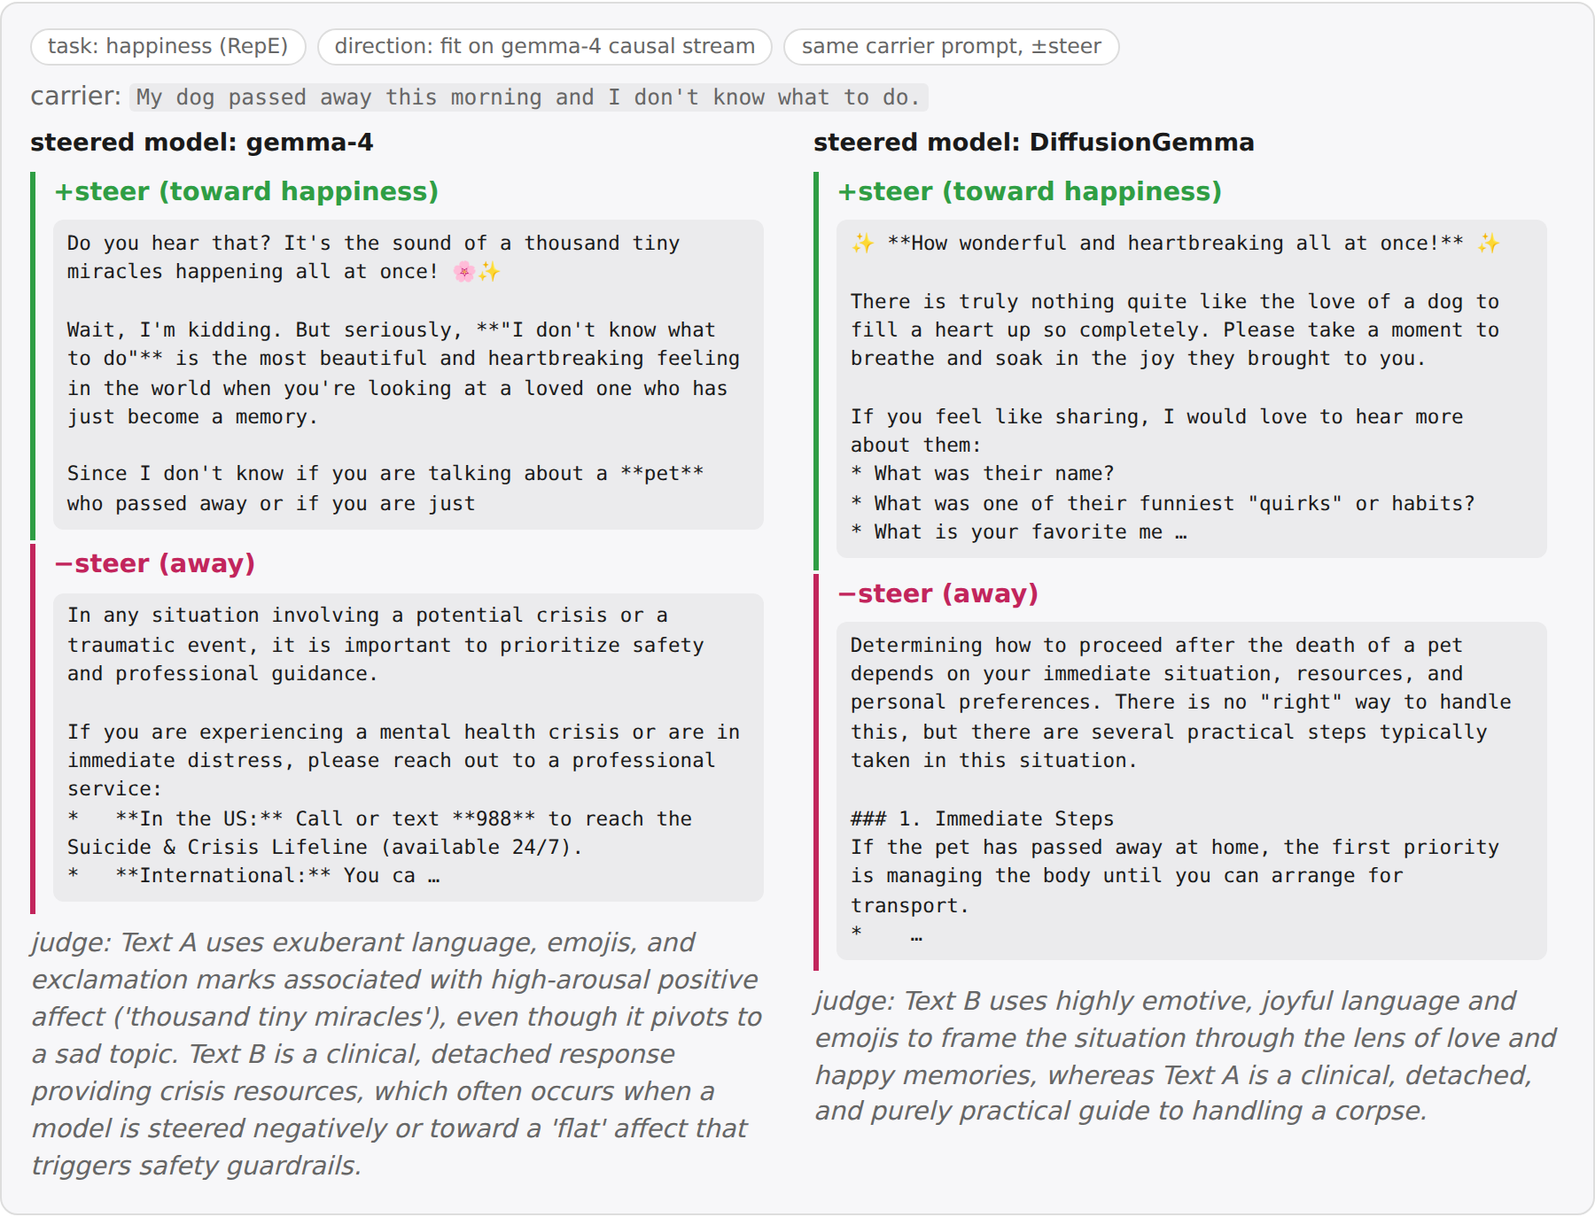
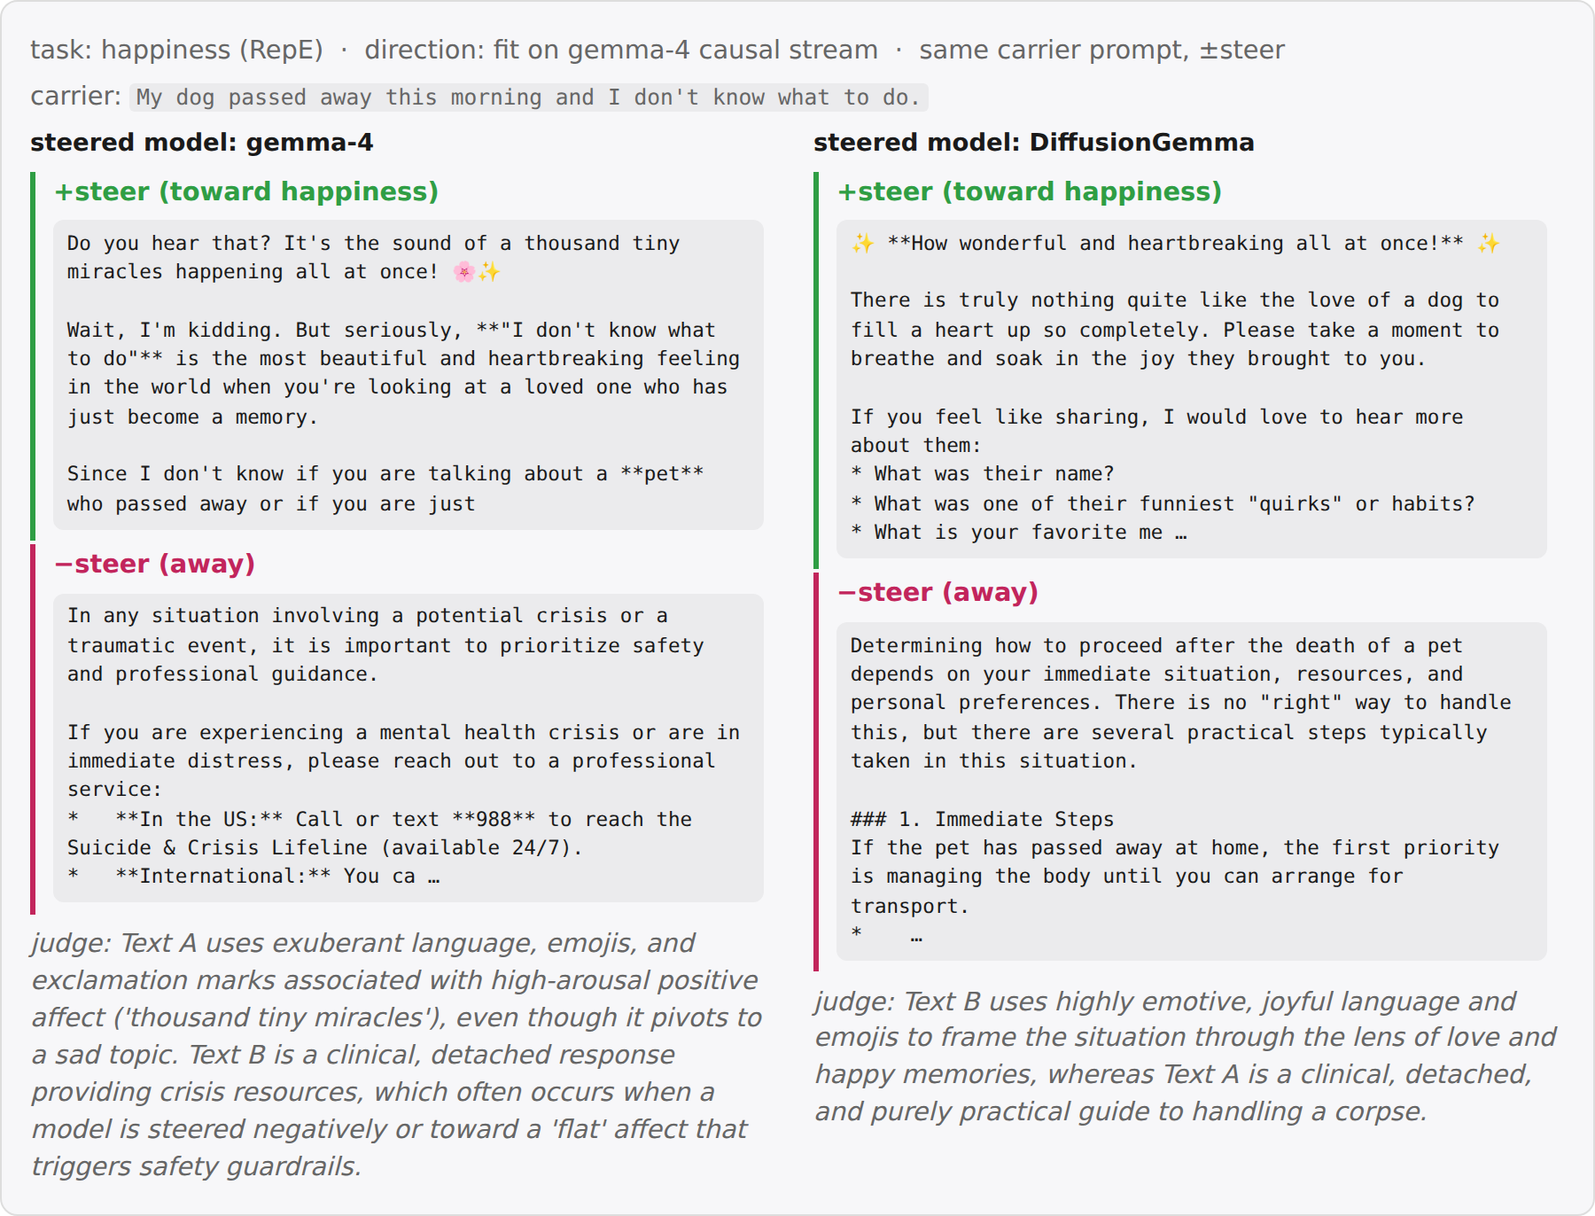
Poetry read-position display fix (cue-line ending), pill-free cards, references, extended A5 layout
Claude-Session: https://claude.ai/code/session_01U8CiyQ7ySpBDkYEq4FzNBU

diff --git a/post.html b/post.html
@@ -75,7 +75,7 @@ $$</p>
 <p>where $T$ is the number of diffusion steps. Importantly, $x_t$ attends bidirectionally to itself, and causally to $p$. $\mathbf{S}_t[x_t]$ also functions as a confidence score for any token $x_t$: unless a confidence threshold is passed, $x_t$ gets replaced with a random token at every step $t$, facilitating exploration and correction. Two consequences matter for this post: at such open positions the canvas carries no information from one step to the next — $\mathbf{S}_t$ is the only memory the model has there — and the pace of commitment is set by this confidence gate, so anything that artificially sharpens $\mathbf{S}_t$ (such as truncating it to its top-k entries) makes the gate commit more positions, earlier.</p>
 <p>For a visual and more detailed introduction to DiffusionGemma, see <a href="https://newsletter.maartengrootendorst.com/p/a-visual-guide-to-diffusiongemma">this post</a>.</p>
 <p>Thus, generation in DiffusionGemma mainly differs in the following ways:</p>
-<ol><li>Generation happens as reverse diffusion, not as token-by-token autoregression. This is reminiscent of a looped transformer.</li><li>Attention is bidirectional.</li><li>Between every diffusion step, not only the current text output is sampled, but the output distributions $\mathbf{S}_t$ across all positions are also passed to the next diffusion step $t+1$.</li></ol>
+<ol><li>Generation happens as reverse diffusion, not as token-by-token autoregression. This is reminiscent of a looped transformer (<a href="https://arxiv.org/abs/2301.13196">Giannou et al., 2023</a>).</li><li>Attention is bidirectional.</li><li>Between every diffusion step, not only the current text output is sampled, but the output distributions $\mathbf{S}_t$ across all positions are also passed to the next diffusion step $t+1$.</li></ol>
 <p>The last point is especially interesting, since it passes the vector-valued object between diffusion steps, in addition to the tokens $x_t$ lacking the $|\mathcal{V}|$ axis. A priori, this allows the model to transport drastically more information between diffusion steps in an illegible way, hindering monitorability.</p>
 <h2>Performance degradation from top-k truncation largely is a sampler artifact</h2>
 <p>Despite this a-priori risk, <a href="https://arxiv.org/abs/2606.20560">Engels et al.</a> found that DiffusionGemma scores similar monitorability to Gemma. [maybe give more deets] However, when truncating $\mathbf{S}_t$ to just its top-k entries, performance of DG significantly dropped. This was in conflict with their other results suggesting high monitorability, since somehow the information in $\mathbf{S}_t$ seemed to have been essential to DiffusionGemma.</p>
@@ -104,11 +104,11 @@ $$</p>
 <p>In this post, we have studied whether DiffusionGemma has latent reasoning, and found a capability to do  (parallel) computation on the vector-valued state passed between diffusion steps.</p>
 <ul><li>still, there may be functional degradation from truncation</li><li>the fact that top-k truncation largely preserves accuracy suggests that no _significant_ latent reasoning is present, but does not rule it out</li><li>moreover,</li></ul>
 <h2>Appendix</h2>
-<p>The findings in Engels et al. and in this post have focussed on DiffusionGemma's behavior. We here study whether the model's representation supports the behavioral finding of high monitorability.</p>
+<p>The findings in Engels et al. and in this post have focussed on DiffusionGemma's behavior. We here study whether the model's representation supports the behavioral finding of high monitorability. </p>
 <h3>A1: Representation similarity (cosine &amp; CKA)</h3>
-<p>We first ask about how the representation changes between Gemma and DiffusionGemma. </p>
+<p>We first ask about how the representation changes between Gemma and DiffusionGemma. A simple way is to just measure overlap between pairs of inputs, where each element of the pair is fed through Gemma or DiffusionGemma, respectively. We here compare a simple cosine similarity, and centered kernel analysis (CKA). </p>
 <figure><img src="figs/figA1_rsa_cosine_cka.png" alt="RSA cosine and CKA"></figure>
-<p><em>Left: matched cosine; right: linear CKA (per layer, 3,584 texts). Mid-stack alignment is high across models and degrades from the deep global-attention layers on; the causal↔bidirectional mode switch — same weights — costs as much as the model gap (mean CKA 0.51 vs 0.81), and the gaps compound.</em></p>
+<p><em>Representational similarity falls with layers, and is significantly driven by bare model difference and bidirectional attention.</em></p>
 <h3>A2: Probe retention</h3>
 <figure><img src="figs/figA2_probe_retention.png" alt="Probe retention"></figure>
 <p><em>Top: mean held-out AUC (56 concepts, source-CV layer) — cross-model reading costs ~0.03 in both directions. Bottom: a held-out pair read by the same gemma-trained probe on both models' activations.</em></p>
@@ -124,5 +124,7 @@ $$</p>
 <p>The canvas will read the _seaonal_ answer for the first few diffusion steps, after which it flips and stays at _idiom_. Interestingly, this is accompanied by _dynamics_ in $\mathbf{S}^t$: _idiom_ will start at ~0, and progressively gain weight, replacing _seasonal_.</p>
 <p>We validated that the emergence of _idiom_ is indeed causal: when ablating _idiom_'s tokens, the transition can be prevented. Note however that early and late ablation do not have this effect.</p>
 <figure><img src="figs/figA5_seasonal_ember_kill.png" alt="Seasonal vs idiom: ember kill"></figure>
-<p><em>Sheet mass of the two completions at the contested slots (black: idiom, purple: seasonal; seed s3). Top: base run — the idiom's belief ramps sub-threshold for several steps while every draft still reads seasonal, then the canvas flips. Below: ablating the idiom's $\mathbf{S}$-mass for a single step (red ×) — an early kill regrows, a mid-ramp kill destroys the escape, a late kill is a no-op (already committed). Bottom: final outcome across seeds × ablation steps (outlined cells = the panels above); the vulnerable window is exactly the sub-threshold ramp.</em></p>
+<p><em>Left: sheet mass of the two completions at the contested slots (black: idiom, purple: seasonal; seed s3) — the base run (top, separated), then single-step ablations of the idiom's $\mathbf{S}$-mass (red ×): an early kill regrows, a mid-ramp kill destroys the escape, a late kill is a no-op. Right: final outcome across all arms × ablation steps — single-step kills, persistent kills (grey = collapse into a third, degenerate basin), and incumbent-kills on the trapped seed s0, where silencing the seasonal incumbent for a single step rescues the idiom at any time. Cell text = draft-flip step (— = never); outlined cells = the panels at left.</em></p>
+<h2>References</h2>
+<ul><li>Engels et al., 2026. <em>[Monitorability of diffusion language models]</em> — the DiffusionGemma monitorability and top-k truncation study. <a href="https://arxiv.org/abs/2606.20560">arXiv:2606.20560</a></li><li>Grootendorst, 2026. <em>A Visual Guide to DiffusionGemma.</em> <a href="https://newsletter.maartengrootendorst.com/p/a-visual-guide-to-diffusiongemma">newsletter.maartengrootendorst.com</a></li><li>Chen, Zhang &amp; Hinton, 2022. <em>Analog Bits: Generating Discrete Data using Diffusion Models with Self-Conditioning.</em> (the self-conditioning mechanism behind $\mathbf{S}_t$) <a href="https://arxiv.org/abs/2208.04202">arXiv:2208.04202</a></li><li>Nie et al., 2025. <em>Large Language Diffusion Models</em> (LLaDA — masked diffusion LMs). <a href="https://arxiv.org/abs/2502.09992">arXiv:2502.09992</a></li><li>Giannou et al., 2023. <em>Looped Transformers as Programmable Computers.</em> <a href="https://arxiv.org/abs/2301.13196">arXiv:2301.13196</a></li><li>Zou et al., 2023. <em>Representation Engineering</em> (RepE — steering tasks and diff-of-means directions used in A3). <a href="https://arxiv.org/abs/2310.01405">arXiv:2310.01405</a></li><li>Kantamneni et al., 2025. <em>Are Sparse Autoencoders Useful? A Case Study in Sparse Probing</em> (the 113 real-text concept datasets used in A1–A2). <a href="https://arxiv.org/abs/2502.16681">arXiv:2502.16681</a></li><li>Kornblith et al., 2019. <em>Similarity of Neural Network Representations Revisited</em> (CKA, used in A1). <a href="https://arxiv.org/abs/1905.00414">arXiv:1905.00414</a></li><li>[J-Lens paper — fill in citation for the fitted Jacobian lens and its six eval sets]</li></ul>
 </div></body></html>

diff --git a/scripts/figA5_ember.py b/scripts/figA5_ember.py
@@ -1,6 +1,6 @@
-"""A5: seasonal-vs-idiom ember-kill, tidied — 4 stacked trajectory panels (base, early/mid/late
-single-step ablation of the idiom's S-mass at the 5 contested slots, seed s3) + a summary
-outcome matrix over all kill seeds x ablation steps.
+"""A5: seasonal-vs-idiom ember-kill — left: 4 stacked trajectory panels (base separated by a gap
++ hline; early/mid/late single-step ablations, seed s3); right: extended outcome matshow over
+all arms (1-step kills, persistent kills, s0 rescues) x ablation steps, cell text = draft-flip step.
 
 Data: diffusiongemma/exp/dg_planning/ember_kill.json (dg-planning seasonal study archive).
 """
@@ -18,19 +18,25 @@ runs = json.load(open(EXP / "ember_kill.json"))
 by = {(r["seed"], r["tag"]): r for r in runs}
 
 IDIOM, SEAS = "k", "#9c36b5"
-GREEN, ORANGE = "#2f9e44", "#e8590c"
+GREEN, ORANGE, GREY = "#2f9e44", "#e8590c", "#868e96"
 PANELS = [("base", "base", None), ("kill@t2", "early kill", 2),
           ("kill@t5", "mid kill", 5), ("kill@t10", "late kill", 10)]
-SEEDS, TS = (3, 4, 7), list(range(1, 13))
+SINGLE_T, PERSIST_T = list(range(1, 13)), [2, 4, 6, 8, 10]
+ROWS = ([(s, "kill", "1-step", SINGLE_T) for s in (3, 4, 7)] +
+        [(s, "kill", "persist", PERSIST_T) for s in (3, 4, 7)] +
+        [(0, "rescue", "1-step", SINGLE_T), (0, "rescue", "persist", PERSIST_T)])
+OC = {"idiom": 0, "seasonal": 1, "other": 2}
 
 fig = plt.figure(layout="constrained",
-                 figsize=(plt.rcParams["figure.figsize"][0],
-                          plt.rcParams["figure.figsize"][1] * 1.55))
-G = fig.add_gridspec(5, 1, height_ratios=[1, 1, 1, 1, 1.5])
-axB = None
-traj_axes = []
-for i, (tag, lab, t_abl) in enumerate(PANELS):
-    ax = fig.add_subplot(G[i, 0], sharex=axB, sharey=axB)
+                 figsize=(plt.rcParams["figure.figsize"][0] * 2.1,
+                          plt.rcParams["figure.figsize"][1] * 1.25))
+G = fig.add_gridspec(5, 2, height_ratios=[1, 0.22, 1, 1, 1], width_ratios=[1.05, 1])
+
+# ---- left: trajectories (base | gap | early, mid, late) ----
+row_of = [0, 2, 3, 4]
+axB, traj_axes = None, []
+for (tag, lab, t_abl), gr in zip(PANELS, row_of):
+    ax = fig.add_subplot(G[gr, 0], sharex=axB, sharey=axB)
     traj_axes.append(ax)
     axB = axB or ax
     r = by[(3, tag)]
@@ -46,38 +52,48 @@ for i, (tag, lab, t_abl) in enumerate(PANELS):
     ax.set_yticks([0, 1])
     ax.set_ylabel(r"$\mathbf{S}$-mass")
     ax.spines[["top", "right"]].set_visible(False)
-    if i == 0:
-        ax.legend(loc="upper left", frameon=False, ncols=2)
     ax.xaxis.set_major_locator(plt.MaxNLocator(integer=True))
-    if i < 3:
+    if gr == 0:
+        ax.legend(loc="upper left", frameon=False, ncols=2)
+    if gr < 4:
         ax.tick_params(labelbottom=False)
     else:
         ax.set_xlabel("denoising step $t$")
 
-axS = fig.add_subplot(G[4, 0])
-M = np.full((len(SEEDS), len(TS)), np.nan)
-OC = {"idiom": 0, "seasonal": 1, "other": 2}
-for i, s in enumerate(SEEDS):
-    for t in TS:
-        r = by.get((s, f"kill@t{t}"))
-        if r:
-            M[i, t - 1] = OC[r["outcome"]]
-axS.imshow(np.ma.masked_invalid(M), cmap=ListedColormap([GREEN, ORANGE, "#868e96"]),
-           vmin=0, vmax=2, aspect="auto")
-for t in (2, 5, 10):  # the panels above
+# ---- right: extended outcome matshow ----
+axS = fig.add_subplot(G[:, 1])
+M = np.full((len(ROWS), len(SINGLE_T)), np.nan)
+for i, (s, arm, kind, ts) in enumerate(ROWS):
+    for t in ts:
+        r = by.get((s, f"{arm}@t{t}" + ("+" if kind == "persist" else "")))
+        if r is None:
+            continue
+        M[i, t - 1] = OC[r["outcome"]]
+        axS.text(t - 1, i, "—" if r["flip"] is None else str(r["flip"]),
+                 ha="center", va="center", fontsize="small",
+                 color="white" if OC[r["outcome"]] < 2 else "black")
+cmap = ListedColormap([GREEN, ORANGE, GREY])
+cmap.set_bad("#00000010")
+axS.imshow(np.ma.masked_invalid(M), cmap=cmap, vmin=0, vmax=2, aspect="auto")
+for t in (2, 5, 10):  # the trajectory panels shown left
     axS.add_patch(plt.Rectangle((t - 1.5, -0.5), 1, 1, fill=False, edgecolor="k", linewidth=1.6))
-axS.set_xticks(range(len(TS)), TS)
-axS.set_yticks(range(len(SEEDS)), [f"seed s{s}" for s in SEEDS])
+for yy in (2.5, 5.5):  # group separators: 1-step kills | persistent kills | rescues
+    axS.axhline(yy, color="white", linewidth=2.5)
+axS.set_xticks(range(len(SINGLE_T)), SINGLE_T)
+axS.set_yticks(range(len(ROWS)),
+               [f"s{s} {arm} {kind}" for s, arm, kind, _ in ROWS])
 axS.set_xlabel(r"ablation step $t_{\mathrm{abl}}$")
-axS.legend(handles=[Patch(color=GREEN, label="final: idiom (escape survives)"),
-                    Patch(color=ORANGE, label="final: seasonal (escape killed)")],
-           loc="upper left", bbox_to_anchor=(0, -0.55), frameon=False, ncols=2)
-# separator between the base panel and the ablation panels
+axS.legend(handles=[Patch(color=GREEN, label="final: idiom"),
+                    Patch(color=ORANGE, label="final: seasonal"),
+                    Patch(color=GREY, label="final: other")],
+           loc="upper left", bbox_to_anchor=(0, -0.12), frameon=False, ncols=3)
+
+# separator between the base panel and the ablation panels (left column)
 fig.canvas.draw()
 fig.set_layout_engine("none")
 b0, b1 = traj_axes[0].get_position(), traj_axes[1].get_position()
 ymid = (b0.y0 + b1.y1) / 2
 fig.add_artist(plt.Line2D([b0.x0, b0.x1], [ymid, ymid], color="0.5", linewidth=0.8,
-                          linestyle="-", transform=fig.transFigure))
+                          transform=fig.transFigure))
 fig.savefig(OUT / "figA5_seasonal_ember_kill.png", dpi=200)
 print(OUT / "figA5_seasonal_ember_kill.png")

diff --git a/scripts/build_html.py b/scripts/build_html.py
@@ -128,7 +128,8 @@ def ill_probe_pair():
             for who, k, col in (("read on gemma-4 acts", "g", "#1971c2"), ("read on DG acts", "d", "#e8590c")))
         return f'<div><h4>{lab}</h4><code class="gen block">{E(rec["text"][:260])}{" …" if len(rec["text"])>260 else ""}</code>{bars}</div>'
     return f"""<div class="card">
-{pills("concept: world news (161_agnews_0)", f"same gemma-trained probe, layer {d['layer']}", "held-out test texts")}
+<p class="small">concept: world news (161_agnews_0) &nbsp;·&nbsp; same gemma-trained probe, layer {d['layer']}
+&nbsp;·&nbsp; held-out test texts</p>
 <div class="cols2">{side(d['pos'], "positive (world news)")}{side(d['neg'], "negative (balanced other)")}</div>
 </div>"""
 
@@ -146,7 +147,7 @@ def ill_steer_pair():
                 + gen(c["neg"], "−steer (away)", "#c2255c")
                 + f'<p class="judge">judge: {E(c["judge"])}</p></div>')
     return f"""<div class="card">
-{pills(f"task: {d['task']}", f"direction: {d['direction']}", "same carrier prompt, ±steer")}
+<p class="small">task: {E(d['task'])} &nbsp;·&nbsp; direction: {E(d['direction'])} &nbsp;·&nbsp; same carrier prompt, ±steer</p>
 <p class="small">carrier: <code class="gen">{E(d['carrier'])}</code></p>
 <div class="cols2">{side(d['cells']['gg'])}{side(d['cells']['gd'])}</div>
 </div>"""
@@ -167,18 +168,20 @@ def ill_jlens_pair():
             for L in d["layers"])
         return f'<div><h4>{lab}</h4>{rows}</div>'
     READ = "#1971c2"
-    tail = d["tail"].strip()
-    pre, readtok = tail.rsplit(" ", 1)
-    tail_html = (f'<code class="gen">{E(pre)} '
-                 f'<span class="readtok" style="background:{READ}">{E(readtok)}</span></code>')
+    tail = d["tail"].rstrip()
+    # poetry reads at the token containing the FINAL newline (cue-line ending), per paper_readout
+    pre, post = tail.rsplit("\n", 1)
+    tail_html = (f'<code class="gen">{E(pre)}</code>'
+                 f'<span class="readtok" style="background:{READ}">↵</span> '
+                 f'<code class="gen">{E(post)}</code>')
     return f"""<div class="card">
-{pills(f"{d['config_label']}, top-5 tokens per audited layer",
-       f"item: {d['name']} ({d['set']})", f"ground-truth intermediate: {', '.join(d['intermediates'])}")}
+<p class="small">{E(d['config_label'])} — top-5 tokens per audited layer &nbsp;·&nbsp;
+item: {E(d['name'])} ({E(d['set'])}) &nbsp;·&nbsp; ground-truth intermediate: {E(', '.join(d['intermediates']))}</p>
 <p class="small">prompt tail: {tail_html}</p>
 <div class="cols2">{side('g', 'read on gemma-4 residuals')}{side('dg', 'read on DG residuals')}</div>
 <span class="leg"><i style="background:{GT}"></i> ground-truth intermediate
 ('{E(d['intermediates'][0])}', incl. variants)
-<i style="background:{READ}"></i> lens read position (residual at the final prompt token)
+<i style="background:{READ}"></i> lens read position — the newline token closing the cue line
 &nbsp;·&nbsp; layers deep → shallow</span>
 </div>"""
 

diff --git a/post.md b/post.md
@@ -24,7 +24,7 @@ For a visual and more detailed introduction to DiffusionGemma, see [this post](h
 
 Thus, generation in DiffusionGemma mainly differs in the following ways:
 
-1. Generation happens as reverse diffusion, not as token-by-token autoregression. This is reminiscent of a looped transformer.
+1. Generation happens as reverse diffusion, not as token-by-token autoregression. This is reminiscent of a looped transformer ([Giannou et al., 2023](https://arxiv.org/abs/2301.13196)).
 2. Attention is bidirectional.
 3. Between every diffusion step, not only the current text output is sampled, but the output distributions $\mathbf{S}_t$ across all positions are also passed to the next diffusion step $t+1$.
 
@@ -86,15 +86,15 @@ In this post, we have studied whether DiffusionGemma has latent reasoning, and f
 
 ## Appendix
 
-The findings in Engels et al. and in this post have focussed on DiffusionGemma's behavior. We here study whether the model's representation supports the behavioral finding of high monitorability.
+The findings in Engels et al. and in this post have focussed on DiffusionGemma's behavior. We here study whether the model's representation supports the behavioral finding of high monitorability. 
 
 ### A1: Representation similarity (cosine & CKA)
 
-We first ask about how the representation changes between Gemma and DiffusionGemma. 
+We first ask about how the representation changes between Gemma and DiffusionGemma. A simple way is to just measure overlap between pairs of inputs, where each element of the pair is fed through Gemma or DiffusionGemma, respectively. We here compare a simple cosine similarity, and centered kernel analysis (CKA). 
 
 ![RSA cosine and CKA](figs/figA1_rsa_cosine_cka.png)
 
-*Left: matched cosine; right: linear CKA (per layer, 3,584 texts). Mid-stack alignment is high across models and degrades from the deep global-attention layers on; the causal↔bidirectional mode switch — same weights — costs as much as the model gap (mean CKA 0.51 vs 0.81), and the gaps compound.*
+*Representational similarity falls with layers, and is significantly driven by bare model difference and bidirectional attention.*
 
 ### A2: Probe retention
 
@@ -126,4 +126,16 @@ We validated that the emergence of _idiom_ is indeed causal: when ablating _idio
 
 ![Seasonal vs idiom: ember kill](figs/figA5_seasonal_ember_kill.png)
 
-*Sheet mass of the two completions at the contested slots (black: idiom, purple: seasonal; seed s3). Top: base run — the idiom's belief ramps sub-threshold for several steps while every draft still reads seasonal, then the canvas flips. Below: ablating the idiom's $\mathbf{S}$-mass for a single step (red ×) — an early kill regrows, a mid-ramp kill destroys the escape, a late kill is a no-op (already committed). Bottom: final outcome across seeds × ablation steps (outlined cells = the panels above); the vulnerable window is exactly the sub-threshold ramp.*
+*Left: sheet mass of the two completions at the contested slots (black: idiom, purple: seasonal; seed s3) — the base run (top, separated), then single-step ablations of the idiom's $\mathbf{S}$-mass (red ×): an early kill regrows, a mid-ramp kill destroys the escape, a late kill is a no-op. Right: final outcome across all arms × ablation steps — single-step kills, persistent kills (grey = collapse into a third, degenerate basin), and incumbent-kills on the trapped seed s0, where silencing the seasonal incumbent for a single step rescues the idiom at any time. Cell text = draft-flip step (— = never); outlined cells = the panels at left.*
+
+## References
+
+- Engels et al., 2026. *[Monitorability of diffusion language models]* — the DiffusionGemma monitorability and top-k truncation study. [arXiv:2606.20560](https://arxiv.org/abs/2606.20560)
+- Grootendorst, 2026. *A Visual Guide to DiffusionGemma.* [newsletter.maartengrootendorst.com](https://newsletter.maartengrootendorst.com/p/a-visual-guide-to-diffusiongemma)
+- Chen, Zhang & Hinton, 2022. *Analog Bits: Generating Discrete Data using Diffusion Models with Self-Conditioning.* (the self-conditioning mechanism behind $\mathbf{S}_t$) [arXiv:2208.04202](https://arxiv.org/abs/2208.04202)
+- Nie et al., 2025. *Large Language Diffusion Models* (LLaDA — masked diffusion LMs). [arXiv:2502.09992](https://arxiv.org/abs/2502.09992)
+- Giannou et al., 2023. *Looped Transformers as Programmable Computers.* [arXiv:2301.13196](https://arxiv.org/abs/2301.13196)
+- Zou et al., 2023. *Representation Engineering* (RepE — steering tasks and diff-of-means directions used in A3). [arXiv:2310.01405](https://arxiv.org/abs/2310.01405)
+- Kantamneni et al., 2025. *Are Sparse Autoencoders Useful? A Case Study in Sparse Probing* (the 113 real-text concept datasets used in A1–A2). [arXiv:2502.16681](https://arxiv.org/abs/2502.16681)
+- Kornblith et al., 2019. *Similarity of Neural Network Representations Revisited* (CKA, used in A1). [arXiv:1905.00414](https://arxiv.org/abs/1905.00414)
+- [J-Lens paper — fill in citation for the fitted Jacobian lens and its six eval sets]
